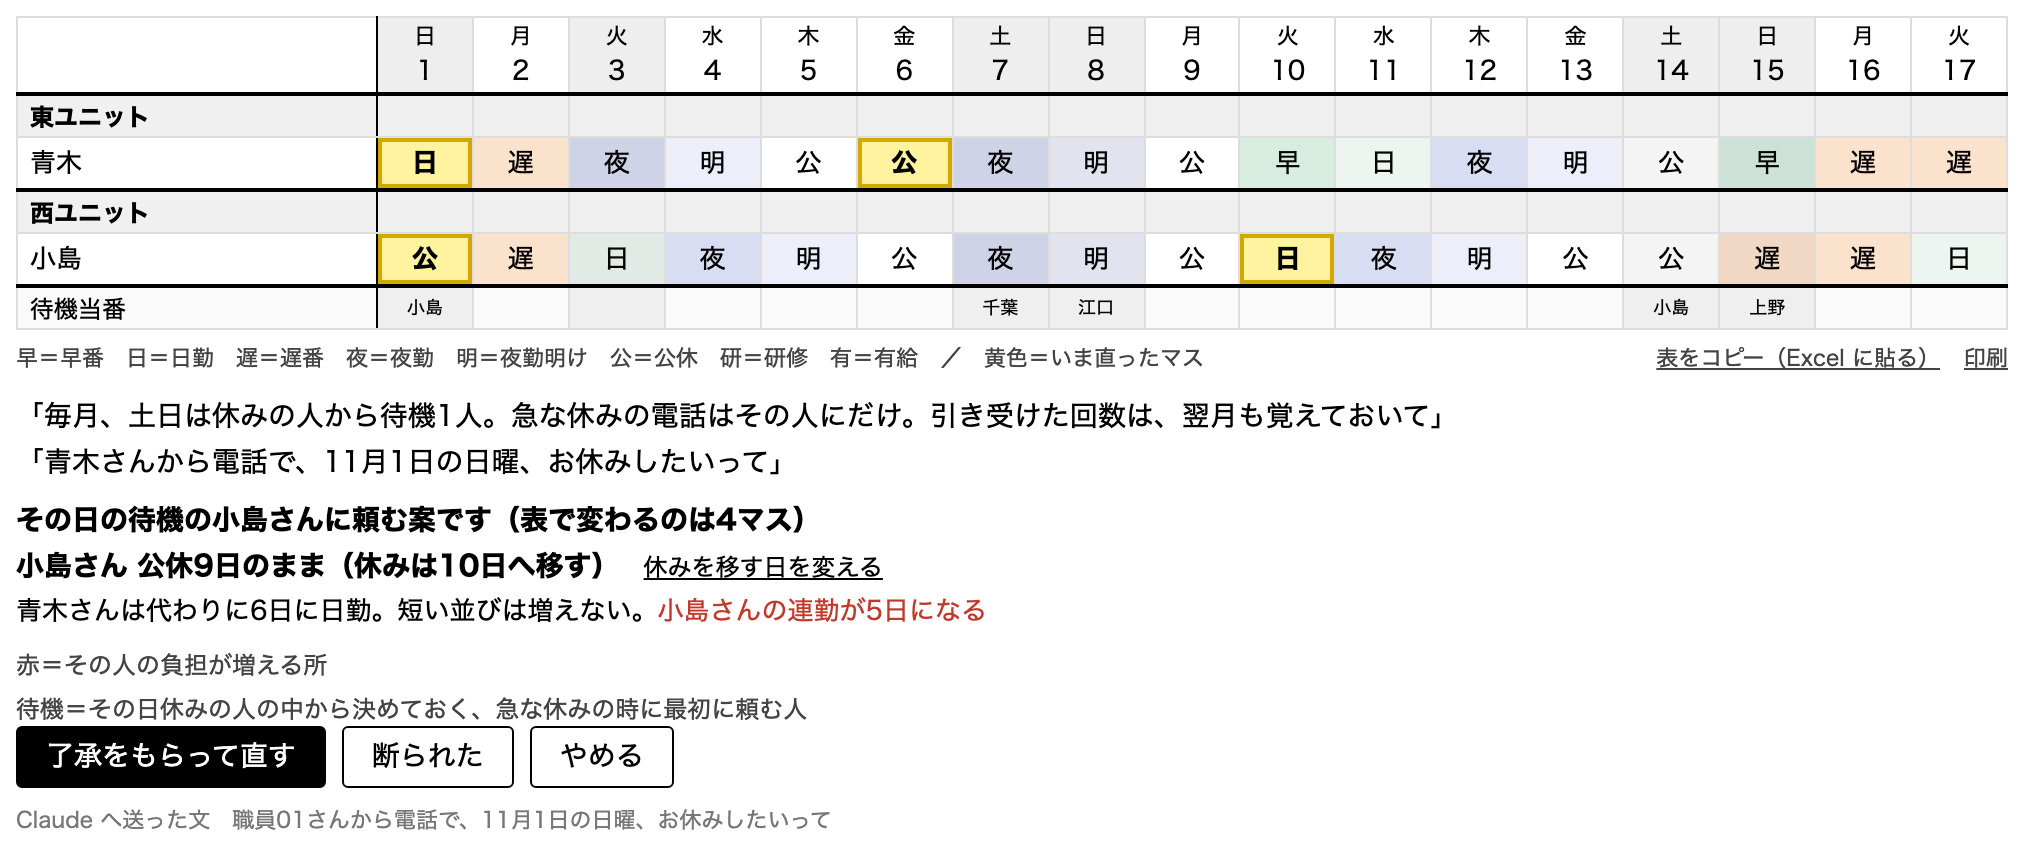
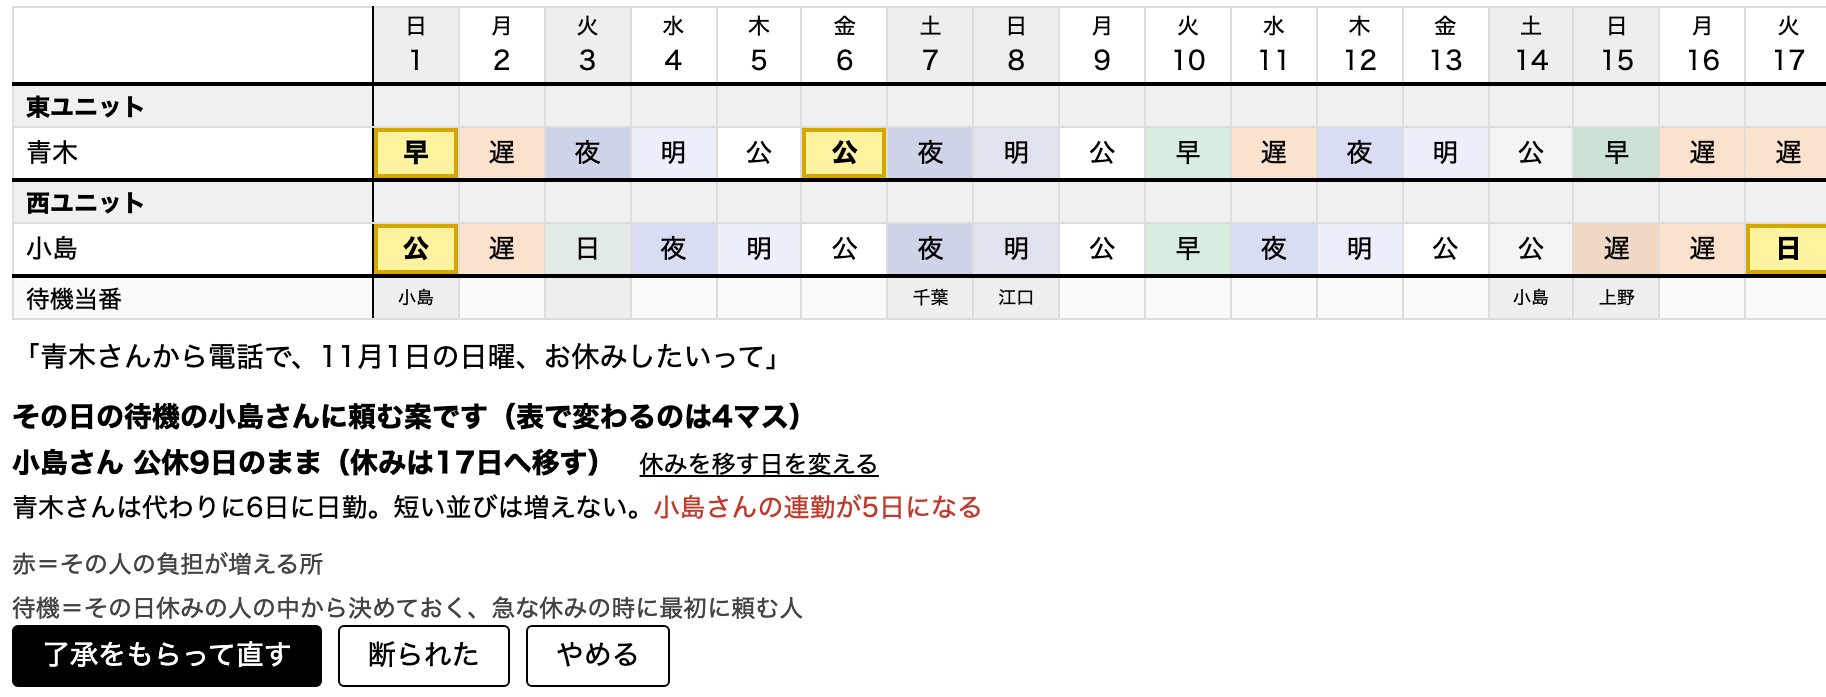
README に、作れなかった日の理由と穴埋めの提案、ルールの整理、言い回しの読み直しと聞き違いの直し、言い回し150件の測りを足し、今の画面で写真を撮り直す
審査員は README と動画と画面の食い違いを見る。今夜の働きを要点だけ足し、右のルールの一覧が古い形のままだった写真5枚を撮り直し、作れない時の提案とルールの整理の写真を足す。docs の台本の記述を本番の動画（台本 v5）に合わせる。

Changed region(s): [[0.0, 0.0, 1.0, 0.9943]]

diff --git a/docs/goal-progress.md b/docs/goal-progress.md
@@ -36,7 +36,7 @@
 ## 人の判断が要ること
 
 - 【作者の答え 2026-11-03＝撮る日に数え直す】台本の締めのせりふの「111件の試験」は、試験が128件に増えたので数が合わない。台本は書き換えない決まりなので、撮る日に数え直すか、件数を言わない形にするかを作者が決める（おすすめは撮る日の件数に直す。せりふの長さは変わらない）
-- 完了条件8の流れ「休みの電話 → 一言で直す → 待機の人だけ動く → 12月」は、台本 v3 の順（一言で直す → 待機当番を足す → 休みの電話 → 12月）と違う。台本を正として、その順で対応表を作った
+- 完了条件8の流れ「休みの電話 → 一言で直す → 待機の人だけ動く → 12月」は、当時の台本 v3 の順（一言で直す → 待機当番を足す → 休みの電話 → 12月）と違う。台本を正として、その順で対応表を作った（本番の動画は、その後に台本 v5 になった。3つの一言だけを見せる約160秒で、待機当番と12月の場面は入れていない）
 
 - **再レビュー2回目で線を超えて直した3件**（周8で3役に見てもらった。マスの頼みの直しは効いていた。全員向けのルールの側で1件新しく壊れていたので直した）
   - (b) 1×8＝人を言った一言に「みんなに伝えておいて」「皆勤」が入ると、人を省いた返事が全員に効く
@@ -86,7 +86,7 @@
 ### 周2〜5 条件6・7・8・9（文書）
 - 条件6 `docs/failure-catalog.md`。development.md・git の履歴・引き継ぎにある失敗だけから13件（周1で見つけた2件を含む）。「誤った直感」は直す前の作りの考え方を書いた
 - 条件7 README に「目的ごとに使った Claude の機能」の表。`src/shiftvoice/reader.py` で実際に呼んでいる物だけ（Messages API・Haiku 5.5・Sonnet 5.5・考える過程を切る・effort low・止まった理由の確かめ）。MCP・ツールの呼び出し（tool use）・プロンプトのキャッシュは使っていないので書かない
-- 条件8 `docs/demo-script.md`。台本 v3 の10場面ごとに、画面の操作・試験・README の数字。せりふは写していない
+- 条件8 `docs/demo-script.md`。当時の台本 v3 の10場面ごとに（今の対応表は v4 の11場面。本番の動画は台本 v5）、画面の操作・試験・README の数字。せりふは写していない
 - 条件9 `uv run python tools/absence_sim.py` を流し直した（76件・46件・小島さん9回・田村さん6回、7.7秒。結果ファイルは秒だけ違ったので戻した）。README の冒頭の困りごとの段落に数字を足し、「ハッカソンの後」に誰が・いつ使うかを足した
 - 次の一手。直した後の再レビュー（1回目）を3役に頼む
 

diff --git a/docs/demo-script.md b/docs/demo-script.md
@@ -2,6 +2,8 @@
 
 3分の動画の場面ごとに、画面で何を操作し、どの試験がその操作を通しているか、README のどの数字を使うかをまとめました。せりふと字幕は台本（v4）の物で、ここには書き写していません。場面は台本の時刻で示します。
 
+本番の動画は台本 v5（約160秒）です。見せるのは3つの一言（遅番の次の日に早番はきついから、やめてあげて／みんな、遅番が3日も4日も続くのはやめて／早番も遅番も、みんな月3回か4回にして）で、下の表の待機当番・12月・Excel の場面は入れていません。1つ目は下の「解決2」と同じ試験（`tests/test_t1_act1.py`）が通しています。2つ目と3つ目は、動画を撮る時に本物の Claude と音声認識で通した物で、録った返事の試験にはまだ入っていません。下の表は台本 v4 の11場面です。
+
 流れは、大きな課題（文字だけ）から小さな課題へ進み、課題ごとに解決を見せます。課題1は、きつい並びを人の手では避けきれないこと（解決は Excel を貼って翌月の表を作る）。課題2は、直すたびにほかが崩れること（解決は話して直す）。課題3は、急な休みの穴埋めが同じ人に偏ること（解決は待機当番と、引き受けた人に翌月返す案）です。文字だけの場面は、各課題の頭の1枚に絞ってあります。
 
 | 台本の場面 | 画面の操作 | それを通す試験 | その場面で使う README の数字 |
